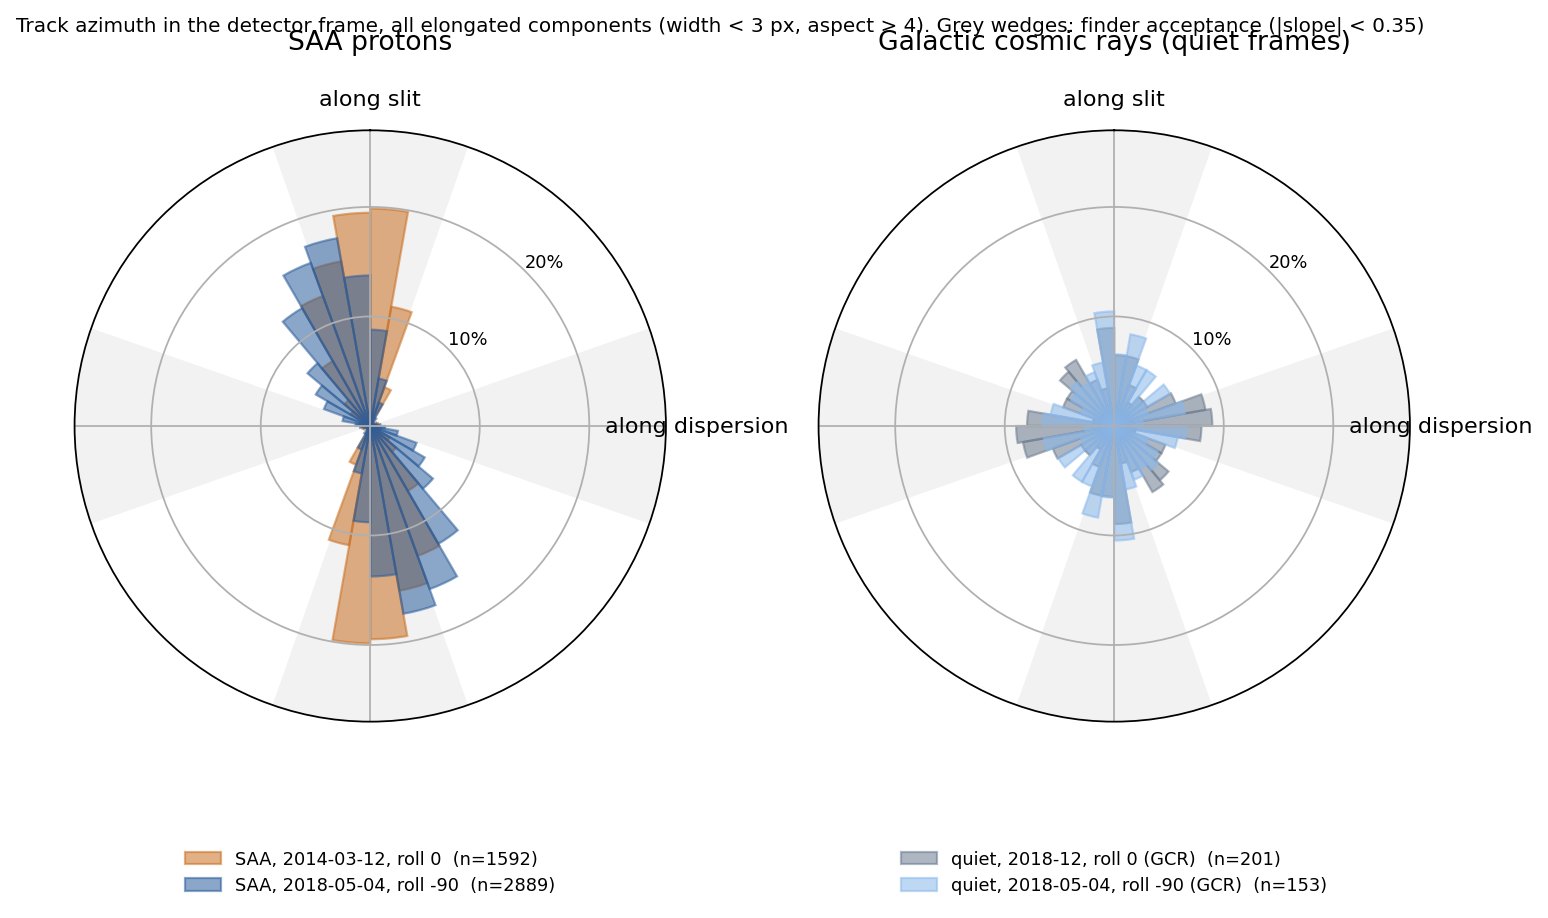
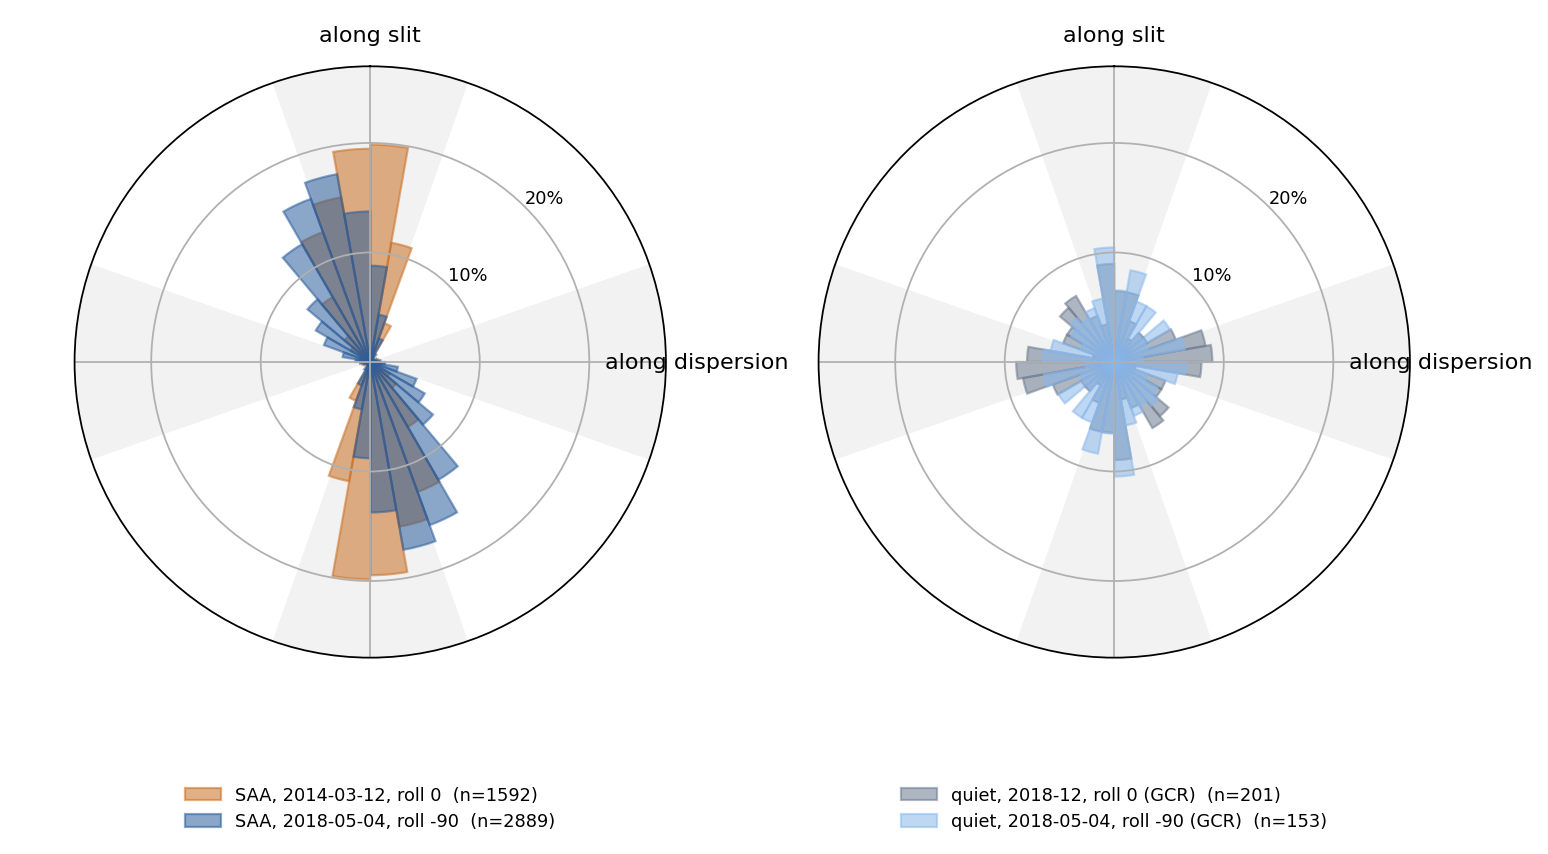
Tidy the figures and tables after a read-through
Drop the frame serial numbers from the image caption, move the legends of
the method and stacked figures out of the data, crop the colliding titles
off the azimuth image and name the panels in the caption instead, and set
the per-CCD table in a smaller font so it fits the text width.

Claude-Session: https://claude.ai/code/session_0192abyvBf2Zw5rq5CQ62JFb

diff --git a/ccd_diffusion/figures/_stacked.py b/ccd_diffusion/figures/_stacked.py
@@ -26,7 +26,7 @@ def stacked() -> aastex.Figure:
 
     fig, ax = plt.subplots(
         ncols=3,
-        figsize=(6.5, 2.6),
+        figsize=(6.5, 2.7),
         constrained_layout=True,
     )
     ax_a, ax_b, ax_c = ax
@@ -63,16 +63,14 @@ def stacked() -> aastex.Figure:
             markersize=2,
             linewidth=0.8,
             label=f"{chip}, {len(tracks.flat(chip))} tracks",
+            zorder=3,
         )
-        ax_c.plot(
-            w.depth.ndarray, best, "o", color=color, markersize=2, label=f"{chip} data"
-        )
+        ax_c.plot(w.depth.ndarray, best, "o", color=color, markersize=2)
         ax_c.plot(
             w.depth.ndarray,
             w.fitted.ndarray.to_value(u.um),
             color=color,
             linewidth=0.8,
-            label=f"{chip} mean of fits",
         )
     reference = tracks.widths("SJI")
     for a in (ax_b, ax_c):
@@ -89,8 +87,8 @@ def stacked() -> aastex.Figure:
     ax_c.axvline(tc_paper, color="gray", linestyle=":", linewidth=0.8)
     ax_b.set_title(r"(b) $\sigma(t)$ from the stacked slices", fontsize=8)
     ax_c.set_title("(c) against the per-track fits", fontsize=8)
-    ax_b.legend(fontsize=5, loc="upper right")
-    ax_c.legend(fontsize=5, loc="upper right")
+    handles, labels = ax_b.get_legend_handles_labels()
+    fig.legend(handles, labels, loc="outside lower center", ncol=4, fontsize=6)
 
     result = aastex.Figure("stacked", position="htb!")
     result.add_fig(fig, width=None)

diff --git a/ccd_diffusion/_variables.py b/ccd_diffusion/_variables.py
@@ -18,7 +18,6 @@ def variables() -> list[aastex.Variable]:
     sji = tracks.summary("SJI")
     tc_paper, sm_paper = tracks.paper_model()
     ccd = ccd_diffusion.ccd()
-    images = {im.image: im for im in tracks.images()}
 
     return [
         aastex.Variable("numFrames", len(frames)),
@@ -37,8 +36,6 @@ def variables() -> list[aastex.Variable]:
             "widthDepleted",
             f"{tracks.depleted('SJI').best.to_value(u.um):.1f}",
         ),
-        aastex.Variable("imageFsnSji", images["SJI_2796"].fsn),
-        aastex.Variable("imageFsnFuv", images["FUV"].fsn),
         aastex.Variable("imageVmax", ccd_diffusion.figures._image._vmax),
         aastex.Variable("thickness", f"{ccd.thickness_substrate.to_value(u.um):.0f}"),
         aastex.Variable("pixelPitch", f"{tracks.width_pixel.to_value(u.um):.0f}"),

diff --git a/ccd_diffusion/figures/_method.py b/ccd_diffusion/figures/_method.py
@@ -172,11 +172,11 @@ def method() -> aastex.Figure:
     ax_d.plot(t, measured, "o", color="black", markersize=2.5, label="measured")
     ax_d.axvline(example.critical_depth, color="tab:blue", linestyle=":", linewidth=0.8)
     ax_d.axvline(tc_paper, color="tab:red", linestyle=":", linewidth=0.8)
-    ax_d.set_ylim(0.3, 1.02)
+    ax_d.set_ylim(0.2, 1.02)
     ax_d.set_xlabel("fractional depth, $t = z / D$")
     ax_d.set_ylabel(r"same-column probability, $\sum_j f_j^2$")
     ax_d.set_title("(d) the diffusion signal along the track in (c)", fontsize=8)
-    ax_d.legend(fontsize=6, loc="upper left")
+    ax_d.legend(fontsize=6, loc="lower left")
 
     result = aastex.Figure("method", position="htb!")
     result.add_fig(fig, width=None)

diff --git a/ccd_diffusion/figures/_image.py b/ccd_diffusion/figures/_image.py
@@ -131,7 +131,7 @@ def image() -> aastex.Figure:
     result.add_fig(fig, width=None)
     result.add_caption(aastex.NoEscape(r"""
 Level-1 images taken seconds apart during a pass through \SAA\ on
-2018 May 4, frames \imageFsnSji\ and \imageFsnFuv, with the spacecraft
+2018 May 4, with the spacecraft
 rolled by $-90^\circ$ so that the limb runs horizontally across the field.
 (a) The slit-jaw image at 2796 \AA, whose lower half is off the limb.
 (b) The widest of the readout windows of the spectrograph image, on the

diff --git a/ccd_diffusion/tables/_tracks.py b/ccd_diffusion/tables/_tracks.py
@@ -47,6 +47,7 @@ corresponding probability that they are collected in the same pixel, and the
 last column is $\mathcal{P}$ predicted by the field-free model for the same
 tracks."""))
     result.append(pylatex.Command("label", "tab:tracks"))
+    result.append(pylatex.Command("footnotesize"))
 
     tabular = pylatex.Tabular("lrrrccccc", booktabs=False)
     tabular.escape = False
